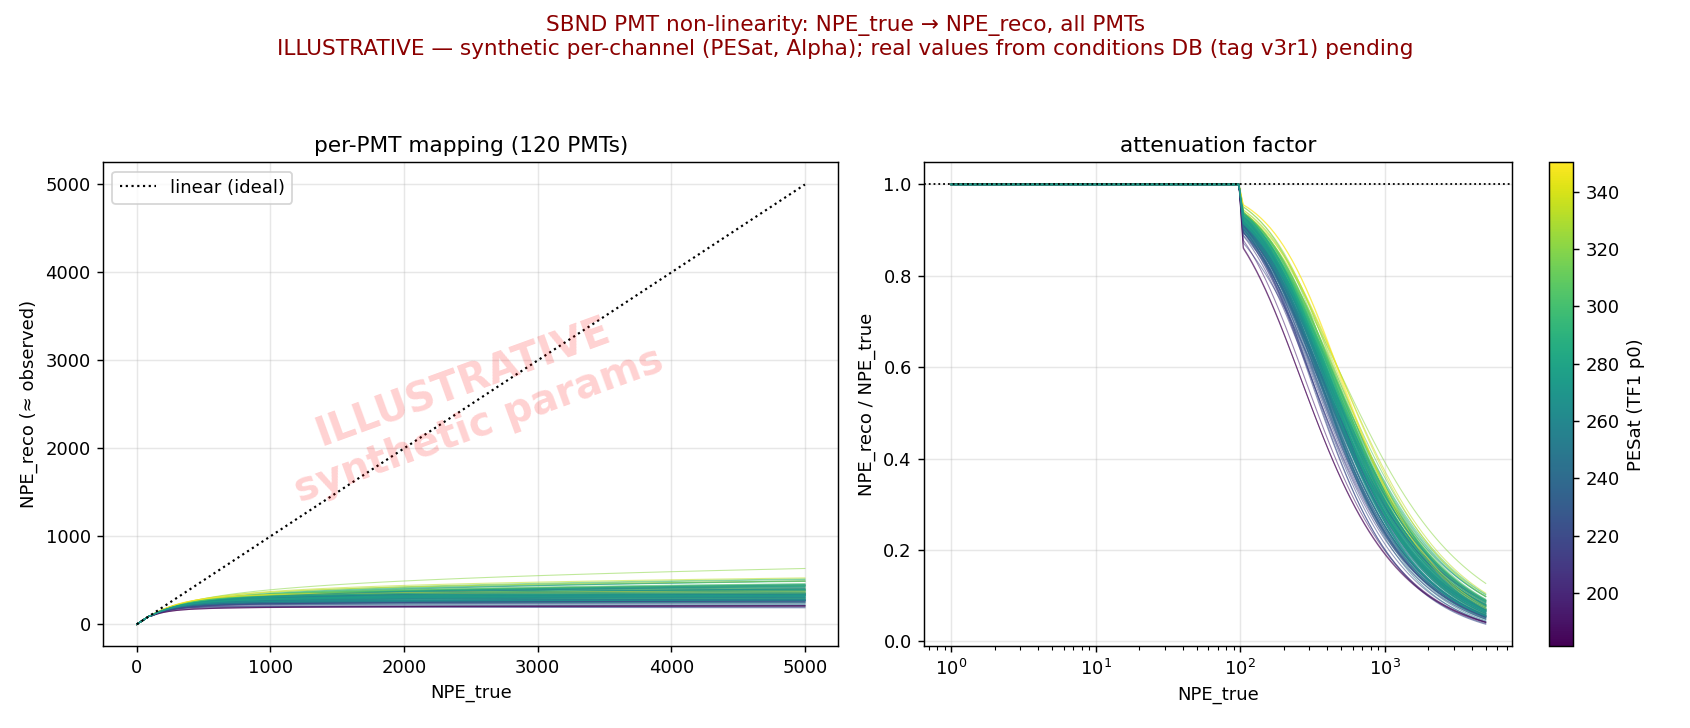
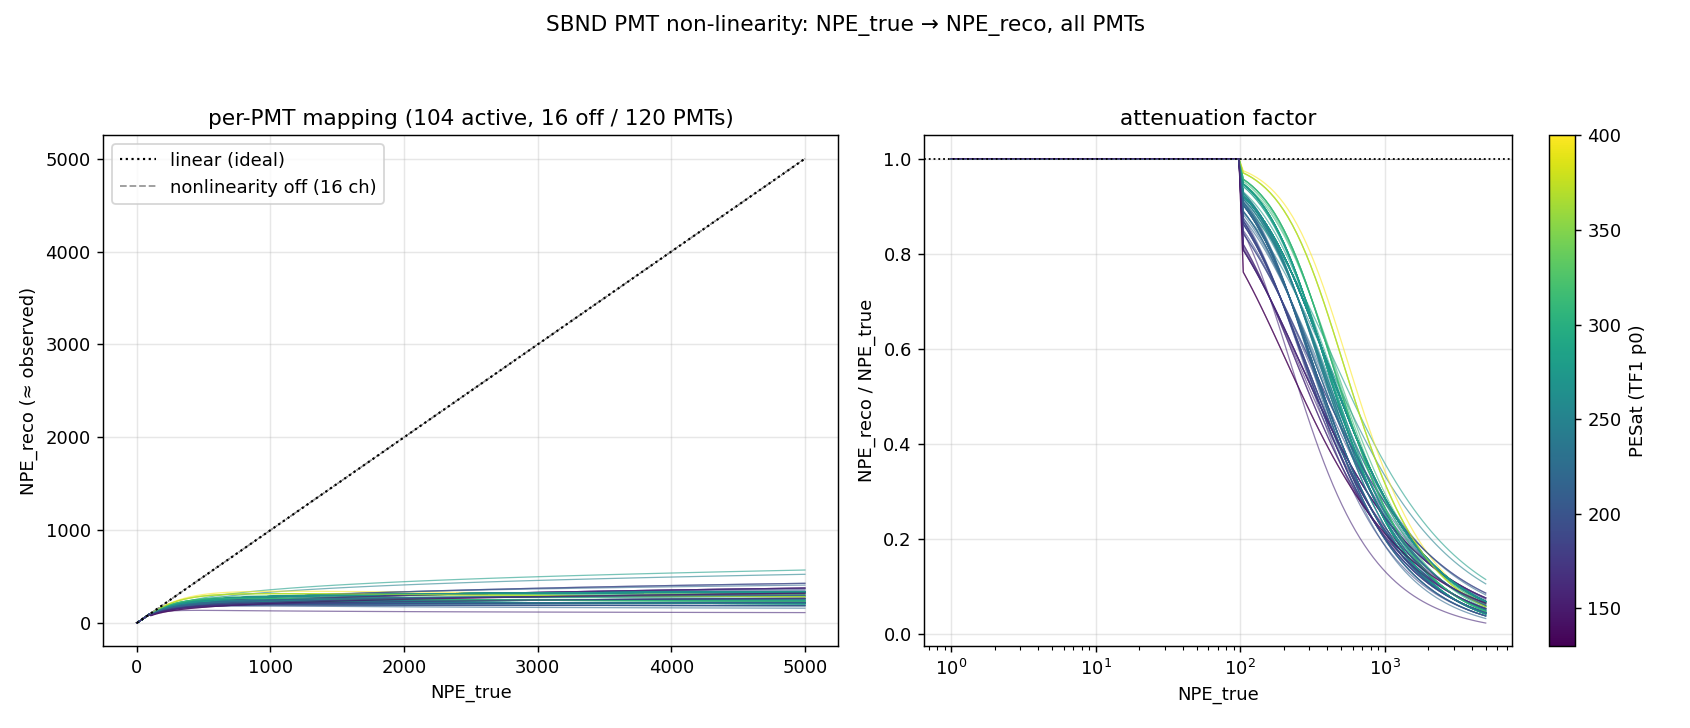
sbnd_xin: all-PMT non-linearity from real v3r1 per-channel params
Replace the illustrative placeholder with the real per-channel (PESat, Alpha)
from conditions DB tag v3r1 (pmt_nonlin_params_v3r1.csv, 120 PMTs). 104 channels
have a saturation curve (PESat 130-400, Alpha 1.5-2.2); 16 have pesat=alpha=0,
which the model now treats as linear (nonlinearity off) instead of dividing by
zero. pics/pmt_nonlinearity_allpmt.png regenerated from the CSV; scripts.md updated.

diff --git a/sbnd/sbnd_xin/pmt_nonlinearity_curve.py b/sbnd/sbnd_xin/pmt_nonlinearity_curve.py
@@ -58,12 +58,18 @@ class PMTNonLinearity:
         self.p0, self.p1 = float(p0), float(p1)
         self.range_lo, self.range_hi = int(range_lo), int(range_hi)
         self.pretime = int(pretime)
+        # A channel with pesat<=0 or alpha<=0 has no DB saturation entry -> linear (no
+        # nonlinearity). The TF1 form divides by p0, so guard it rather than producing 0.
+        self.linear = (self.p0 <= 0.0) or (self.p1 <= 0.0)
         # fPEAttenuation_V[pe] = TF1.Eval(pe)/pe for pe in [range_lo, range_hi); else 1
         pe = np.arange(self.range_hi)
         self._atten = np.ones(self.range_hi, dtype=float)
-        nz = pe >= self.range_lo
-        self._atten[nz] = self.tf1(pe[nz]) / pe[nz]
-        self._sat_value = float(round(self.tf1(self.range_hi)))
+        if not self.linear:
+            nz = pe >= self.range_lo
+            self._atten[nz] = self.tf1(pe[nz]) / pe[nz]
+            self._sat_value = float(round(self.tf1(self.range_hi)))
+        else:
+            self._sat_value = float(self.range_hi)  # unused (no bin reaches the cap branch)
 
     def tf1(self, x):
         """Observed PE for a true accumulated load x: x / sqrt(1+(x/p0)^p1)."""
@@ -78,6 +84,8 @@ class PMTNonLinearity:
         PE in *this* bin.
         """
         pe_bins = np.asarray(pe_bins)
+        if self.linear:
+            return pe_bins.astype(float)
         # 4 ns running sum, inclusive of the current bin (matches accumulate(begin+bin-pre .. begin+bin+1))
         kernel = np.ones(self.pretime + 1, dtype=int)
         npe_acc = np.convolve(pe_bins, kernel)[: len(pe_bins)]  # acc[i] = sum(pe[i-pre..i])
@@ -218,15 +226,26 @@ def all_pmt_plot(params, n_true, outpath, illustrative, range_lo=100):
         for p0, p1, rh in zip(pesat, alpha, rhi)
     ])
 
-    norm = Normalize(pesat.min(), pesat.max())
+    # channels with pesat<=0 or alpha<=0 have no DB saturation entry -> linear (off)
+    off = (pesat <= 0) | (alpha <= 0)
+    active = ~off
+    norm = Normalize(pesat[active].min(), pesat[active].max()) if active.any() else Normalize(0, 1)
     fig, ax = plt.subplots(1, 2, figsize=(13, 5.6))
     for i in range(len(curves)):
-        col = cm.viridis(norm(pesat[i]))
-        ax[0].plot(n_true, curves[i], color=col, lw=0.6, alpha=0.55)
-        ax[1].plot(n_true, curves[i] / n_true, color=col, lw=0.6, alpha=0.55)
+        if off[i]:
+            ax[0].plot(n_true, curves[i], color="0.6", lw=0.5, ls="--", alpha=0.5)
+            ax[1].plot(n_true, curves[i] / n_true, color="0.6", lw=0.5, ls="--", alpha=0.5)
+        else:
+            col = cm.viridis(norm(pesat[i]))
+            ax[0].plot(n_true, curves[i], color=col, lw=0.7, alpha=0.6)
+            ax[1].plot(n_true, curves[i] / n_true, color=col, lw=0.7, alpha=0.6)
     ax[0].plot(n_true, n_true, "k:", lw=1.2, label="linear (ideal)")
+    if off.any():
+        ax[0].plot([], [], color="0.6", ls="--", lw=1,
+                   label=f"nonlinearity off ({int(off.sum())} ch)")
     ax[0].set_xlabel("NPE_true"); ax[0].set_ylabel("NPE_reco (≈ observed)")
-    ax[0].set_title(f"per-PMT mapping ({len(curves)} PMTs)"); ax[0].legend()
+    ax[0].set_title(f"per-PMT mapping ({int(active.sum())} active, "
+                    f"{int(off.sum())} off / {len(curves)} PMTs)"); ax[0].legend()
     ax[0].grid(alpha=0.3)
     ax[1].axhline(1.0, color="k", ls=":", lw=1)
     ax[1].set_xlabel("NPE_true"); ax[1].set_ylabel("NPE_reco / NPE_true")

diff --git a/sbnd/sbnd_xin/docs/scripts.md b/sbnd/sbnd_xin/docs/scripts.md
@@ -464,7 +464,8 @@ python3 pmt_nonlinearity_curve.py --all-pmt --params-csv perchan.csv   # -> pics
 ```
 
 Per-channel `(PESat, Alpha)` are in the remote conditions DB (table `pds_calibration`,
-tag `v3r1`); export to a CSV `opch,pesat,alpha[,range_hi]`. With no `--params-csv` the
-all-PMT plot uses a **clearly-labelled illustrative synthetic spread** (placeholder until
-the real values are available). `pics/pmt_nonlinearity_allpmt.png` is currently that
-placeholder.
+tag `v3r1`); export to a CSV `opch,pesat,alpha[,range_hi]`. The real v3r1 values are
+checked in as `pmt_nonlin_params_v3r1.csv` (120 PMTs: 104 with a saturation curve,
+16 with `pesat=alpha=0` → nonlinearity off / linear), and `pics/pmt_nonlinearity_allpmt.png`
+is generated from it. With no `--params-csv` the all-PMT plot falls back to a
+**clearly-labelled illustrative synthetic spread**.
